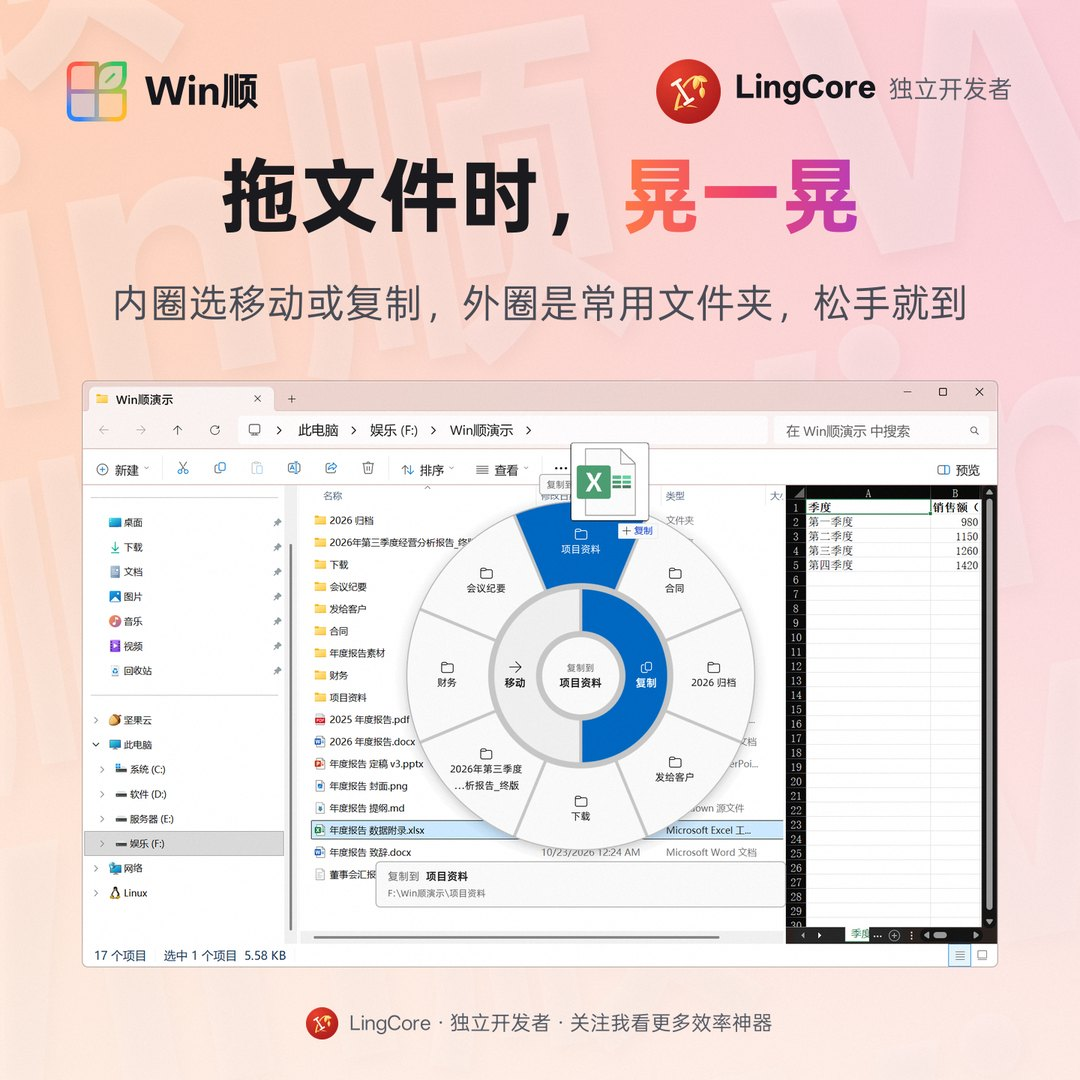
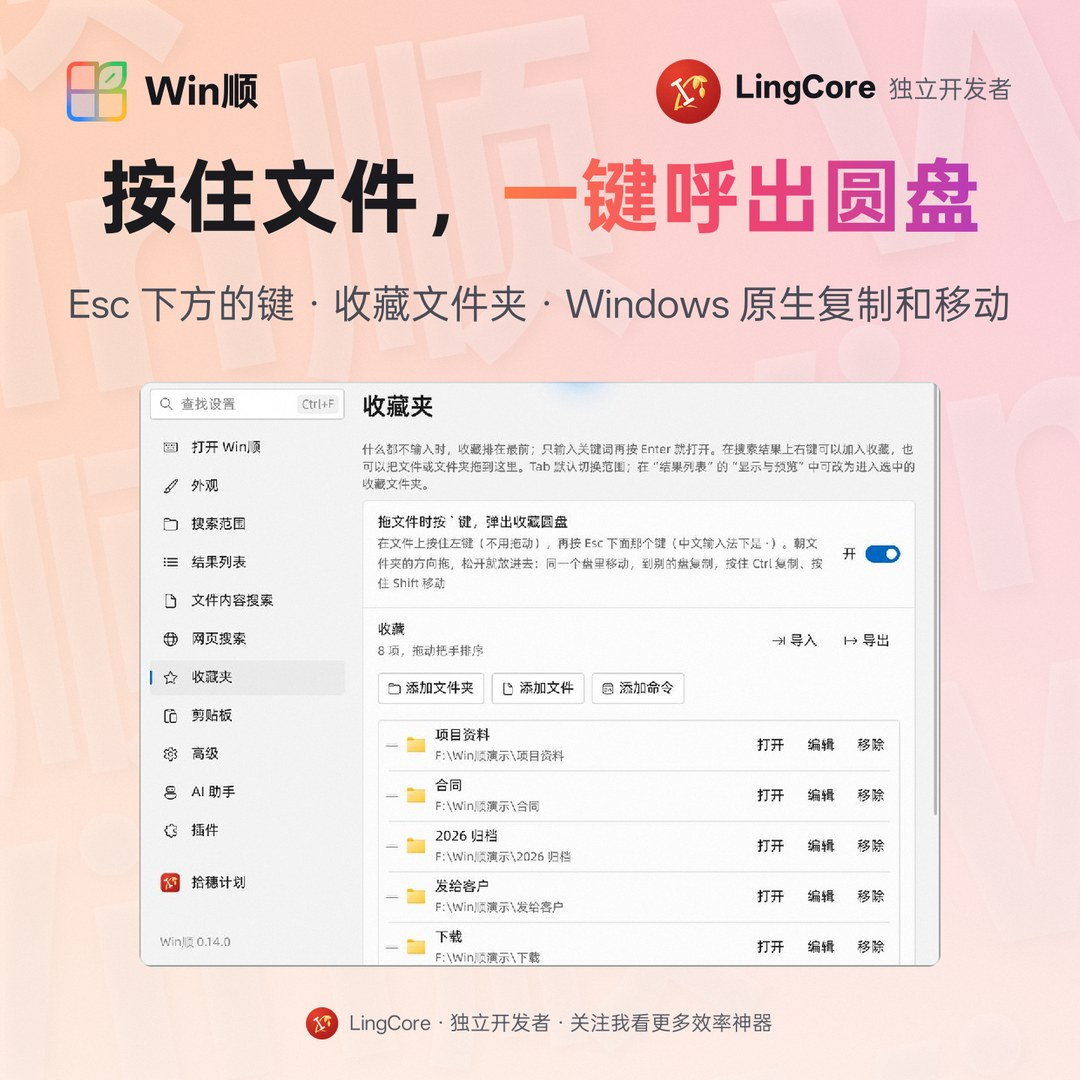
Release 0.14.0: update documentation and screenshots

diff --git a/tools/screenshots/shots.py b/tools/screenshots/shots.py
@@ -71,7 +71,7 @@ README_WIDTH = 1080
 # for a dark one]. With the cover, the taskbar page and the last page,
 # 18 images: as many as a Xiaohongshu post takes.
 PAGES = (
-    ("01-search", "L-search", "打拼音首字母，[秒找文件]", "ndbg → 年度报告，三百多万个文件几毫秒搜完"),
+    ("01-search", "L-search", "先选类型，[再用拼音搜]", ":documents ndbg → 年度报告 · 日期、大小随行显示"),
     ("02-numbers", "L-numbers", "按住 Ctrl，[数字直达]", "图标上显示序号，Ctrl+1～9 打开第几行"),
     ("03-newest", "X-newest", "找[最新的那一版]", "Ctrl+S 按修改时间排，最新的或最早的在前"),
     ("04-content", "L-content", "搜[文件里的文字]", "Word、Excel、PPT、PDF、代码，一起搜"),
@@ -81,7 +81,7 @@ PAGES = (
     ("08-favorites", "L-fav", "常去的地方，[收藏起来]", "不打字就排在最前；起个关键词，cw 回车就进“财务”"),
     ("09-plugins", "L-plug1+L-plug2+L-plug3", "算、换、查，[打完就有]", "计算、单位换算、颜色……装插件还能更多"),
     ("10-dialog", "L-dialog", "打开、保存时[直接搜]", "对话框下面多一个搜索框，不用一层层点文件夹"),
-    ("11-clipboard", "L-clipboard", "剪贴板历史，[随叫随到]", "代替 Win+V · 拼音搜索 · 图片预览"),
+    ("11-clipboard", "L-clipboard", "剪贴板图片，[保留原格式]", "PNG、JPEG、GIF · 动图可播放和暂停"),
     ("12-clipocr", "L-clipocr", "图片里的字，[也能搜]", "复制过的截图，搜“西南”就找到；在本机识别，不联网"),
     ("14-ai", "X-ai2", "让 AI [帮你找文件]", "Claude、Cursor、VS Code 一键连上，只读、按你的权限"),
     ("15-settings", "L-setsearch", "设置[一搜就到]", "打 kjj 就找到“快捷键”，开关直接点"),
@@ -100,12 +100,17 @@ README_ONLY = (
     ("switches", "L-switch1+L-switch2+L-switch3", "系统开关，[打字就切]", "行尾就是现在的状态，回车就地切换，窗口不关"),
     ("edit", "L-edit", "截图标完，[还能再改]", "箭头、方框、文字：从剪贴板历史打开，随时再编辑"),
     # 0.13.0 (scenes/release013.txt): "screen" = a piece of the screen, not a window with its own transparency
-    ("droppie", "L-droppie", "拖文件时，[晃一晃]", "内圈选移动或复制，外圈是常用文件夹，松手就到"),
+    ("droppie", "L-droppie", "按住文件，[一键呼出圆盘]", "Esc 下方的键 · 收藏文件夹 · Windows 原生复制和移动"),
     ("longshot", "L-longshot", "比屏幕还长，[一键拼成长图]", "Ctrl+L 自动滚动、自动拼接：网页、聊天记录、文档都行"),
     ("redact", "L-redact", "截图里的隐私，[一键打码]", "手机号、身份证、银行卡、邮箱，本机识别可撤销", "screen"),
     ("pins", "L-pins", "截图，[贴在屏幕上]", "F3 贴图：悬在所有窗口上，拖到哪放哪，滚轮缩放", "screen"),
     ("capture", "L-capture", "框选截图，[先认出控件]", "指到哪框到哪，色块按钮也认；放大镜看颜色，C 复制", "screen"),
     ("typing", "L-typing", "资源管理器里，[直接打字就搜]", "在文件夹里随便打字，只搜这个文件夹（设置里打开）"),
+    ("plugin-library", "L-plugin-library", "社区插件，[在这里安装]", "现有 WinShun-plugins · 下载后核对校验 · 安装和更新"),
+    ("backup", "L-backup", "设置和收藏，[带到新电脑]", "导出 ZIP · 校验后恢复 · 恢复前保存当前配置"),
+    ("file-types", "L-file-types", "文件类型，[由你来定义]", "扩展名、搜索前缀、顺序，都能自己改"),
+    ("search-scope", "L-search-scope", "只索引[你需要的文件夹]", "选择收录范围，按时核对，后台更新"),
+    ("wsl", "L-wsl", "Linux 文件，[也能一起搜]", "只搜文件名和文件夹名 · 发行版停止时结果仍可用"),
 )
 PENDING = {"L-droppie", "L-longshot", "L-redact", "L-pins", "L-capture", "L-typing"}  # shot by scenes/release013.txt;
 # render leaves them out while there is no shot yet (so the other pictures can be made again meanwhile)

diff --git a/README.md b/README.md
@@ -18,7 +18,7 @@
 </p>
 
 <p align="center">
-  <a href="#中文">中文</a> · <a href="#english">English</a> · <a href="#screenshots">截图 Screenshots</a>
+  <a href="#中文">中文</a> · <a href="#english">English</a> · <a href="#screenshots">截图 Screenshots</a> · <a href="https://github.com/LingCore/WinShun-plugins">插件库 Plugin library</a>
 </p>
 
 <p align="center">
@@ -38,7 +38,7 @@
 ## 截图 · Screenshots
 
 <p align="center">
-  <img src="docs/images/search.jpg" width="49%" alt="打拼音首字母秒找文件：ndbg 找到年度报告 / pinyin initials ndbg find 年度报告">
+  <img src="docs/images/search.jpg" width="49%" alt="文件类型前缀与拼音搜索：:documents ndbg 找到年度报告，结果显示日期与大小 / type prefixes and pinyin search with dates and file sizes">
   <img src="docs/images/numbers.jpg" width="49%" alt="图标上的序号，Ctrl+1～9 直接打开 / row numbers on the icons, Ctrl+1–9 opens a row">
   <img src="docs/images/newest.jpg" width="49%" alt="按修改时间排序，找最新的那一版 / sort by date modified, newest first">
   <img src="docs/images/panel.jpg" width="49%" alt="搜索面板：Ctrl+E 展开，左边筛选，右边分列排序 / search panel: Ctrl+E for filters and sortable columns">
@@ -53,10 +53,11 @@
   <img src="docs/images/switches.jpg" width="49%" alt="系统开关：行尾显示现在的状态，回车就地切换；音量 30、保持唤醒 1小时一步到位 / system switches: the live state on the row, Enter flips it; set the volume or keep awake in one step">
   <img src="docs/images/web.jpg" width="49%" alt="网页搜索：zhihu 显卡、bilibili、京东一步到位 / web search keywords">
   <img src="docs/images/favorites.jpg" width="49%" alt="收藏夹：常去的文件夹排在最前，关键词直达 / favorites with keywords">
-  <img src="docs/images/droppie.jpg" width="49%" alt="拖文件时按 ` 键，常用文件夹围在指针周围，朝哪个拖就放进哪个 / press ` while dragging files: favorite folders round the pointer, drag toward one to drop there">
+  <img src="docs/images/droppie.jpg" width="49%" alt="收藏夹与拖放圆盘设置：按住文件，再按 Esc 下方的键呼出圆盘 / favorites and drop ring settings: hold a file and press the key below Esc">
   <img src="docs/images/plugins.jpg" width="49%" alt="插件：计算器、单位换算、颜色 / plugins: calculator, unit conversion, colors">
+  <img src="docs/images/plugin-library.jpg" width="49%" alt="现有 WinShun-plugins 社区插件库：安装、更新与开发入口 / the existing WinShun-plugins library, installation, updates and plugin development">
   <img src="docs/images/dialog.jpg" width="49%" alt="打开、另存为对话框旁的搜索框，Ctrl+G 转到资源管理器的文件夹 / search bar for Open and Save dialogs">
-  <img src="docs/images/clipboard.jpg" width="49%" alt="剪贴板历史，代替 Win+V，拼音搜索、图片预览 / clipboard history replacing Win+V">
+  <img src="docs/images/clipboard.jpg" width="49%" alt="剪贴板图片原格式与 GIF 动图预览，保留 PNG、JPEG、GIF / original PNG, JPEG and GIF clipboard images with animated previews">
   <img src="docs/images/clipocr.jpg" width="49%" alt="剪贴板 OCR：搜图片里的文字 / clipboard OCR: search words in copied pictures">
   <img src="docs/images/edit.jpg" width="49%" alt="截图标完还能再改：方框、箭头、文字，从剪贴板历史打开接着编辑 / edit a screenshot again: boxes, arrows and text, reopened from the clipboard history">
   <img src="docs/images/capture.jpg" width="49%" alt="框选截图：指到哪框到哪，色块按钮也认，放大镜看颜色 / capture overlay: the control under the pointer is framed, the magnifier shows pixels and color">
@@ -67,6 +68,10 @@
   <img src="docs/images/ai.jpg" width="49%" alt="AI 助手 MCP：Claude、Cursor、VS Code 一键连接 / MCP server for Claude, Cursor and VS Code">
   <img src="docs/images/settings.jpg" width="49%" alt="设置可搜索：kjj 找到快捷键 / searchable settings">
   <img src="docs/images/appearance.jpg" width="49%" alt="外观：主题、透明效果、圆角或直角、界面大小、单色任务栏图标 / appearance: theme, transparency, rounded or square corners, UI size, monochrome taskbar icon">
+  <img src="docs/images/backup.jpg" width="49%" alt="导出设置备份，在新电脑校验恢复，当前配置先备份 / export settings and restore on another PC with validation and a backup of the current configuration">
+  <img src="docs/images/file-types.jpg" width="49%" alt="自定义文件类型、扩展名和搜索前缀 / custom file types, extensions and search prefixes">
+  <img src="docs/images/search-scope.jpg" width="49%" alt="选择索引的文件夹及定时核对频率 / choose indexed folders and their verification schedule">
+  <img src="docs/images/wsl.jpg" width="49%" alt="网络与 WSL 文件名搜索：添加 Linux 用户目录或项目文件夹 / network and WSL filename search, add a Linux home or project folder">
   <img src="docs/images/dark.jpg" width="49%" alt="深色模式，Win11 云母效果 / dark theme with Windows 11 Mica">
 </p>
 
@@ -83,6 +88,8 @@
 📖 每个功能怎么用，见 **[使用说明](docs/使用说明.md)**。
 
 ### 功能
+
+**0.14.0 更新**：WSL 文件搜索、自定义搜索范围和类型、剪贴板原格式图片与 GIF 动图预览、设置备份导出与换机恢复，以及按键呼出的拖放圆盘。截图标注新增曲线和可编辑路径；在资源管理器里还可以把复制的文字、图片或文件直接粘贴成文件。详见 [发布说明](docs/release-notes/v0.14.0.md)。社区插件已集中在 [WinShun-plugins](https://github.com/LingCore/WinShun-plugins)，可在设置 › 插件 › 插件库里安装和更新。
 
 #### 🔍 文件搜索
 
@@ -178,8 +185,8 @@
 - **粘进上传框**：在 Windows 的“打开”文件选择框里从剪贴板历史粘贴文件，完整路径直接填进“文件名”，多个文件也行，再点“打开”。
 - **公式和嵌入的对象**：Word 里单独复制的公式、文档里嵌入的对象，记成一条带图的历史（公式的文字也搜得到），粘回 Word 里还是能编辑的公式或对象，只认图片的程序拿到的是图片；`Shift+Enter` 把公式粘贴成一行文字。（用 Word 测过。）
 - **能搜**：拼音搜索，`@wx` 只看微信里复制的；**图片里的字也能搜**（PaddleOCR 文字识别，在本机，不联网，截图里的数字和小字也认得准）。
-- **预览**：全文、大图、颜色值的 HEX / RGB / HSL；点一条旁边的眼睛按钮（或 `Alt+P`）开关预览，预览开着时鼠标停在哪一行就预览哪一行；预览窗口更宽，中间的竖线可以拖着调，下次还记得；图片缩略图可以调大，不打开预览也看得清。
-- **拖出图片**：按住图片拖到文件夹里，就存成 PNG 文件；用 Ctrl 或 Shift 选多张后，从选中的图片起拖，就能一起保存。在资源管理器里打开剪贴板，粘贴一张或多张图片，也会保存为 PNG 文件。
+- **预览**：全文、大图、颜色值的 HEX / RGB / HSL；GIF 动图支持播放和暂停。点一条旁边的眼睛按钮（或 `Alt+P`）开关预览，预览开着时鼠标停在哪一行就预览哪一行；预览窗口更宽，中间的竖线可以拖着调，下次还记得；图片缩略图可以调大，不打开预览也看得清。
+- **图片保留原格式**：复制来源提供 PNG、JPEG 或 GIF 时，保存原始数据；只有位图时转存 PNG。按住图片拖到文件夹，或在资源管理器里从剪贴板历史粘贴图片，都会沿用保存的格式；用 Ctrl 或 Shift 选多张还能一起保存。
 - **整理**：固定、分组、多选按顺序合并粘贴，钉住后可以一条接一条地往表格里填；固定的可以排在最前，顺序可以拖动或用 `Ctrl+↑`/`↓` 自己排。`Ctrl+A` 选中列出来的全部，行菜单里的“删除全部”一次清掉，按 `Ctrl+Z` 能恢复。
 - **复制过的文件被删了**：那一条会标“已不存在”；可以设成自动隐藏或自动清理（固定的和分组里的不动，拔掉的 U 盘不算）。
 - **从别处导入**：设置 › 剪贴板 › 保留 里的“导入剪贴板历史”，可以导入 Ditto 的数据库（装了 Ditto 的话一键导入）、`.txt` 文本和 `.csv` 表格（中文 Excel 存的 GBK 也认）；导入的放进一个新分组，不会被自动删除，已经有的内容会跳过。
@@ -190,7 +197,7 @@
   - **识别文字并复制**：`Shift+C` 把选区里的文字识别出来，直接复制。
   - **延时**：`D` 或工具条的“延时”，倒计时（秒数在设置里选）到点才定住屏幕，用来截菜单、悬停提示。设置里可以让截图带上鼠标指针（默认关）。
   - **二维码**：`Q` 读选区里的二维码，文字显示在小窗口里可以复制；是网址时多一个“打开链接”，点了才打开。
-  - **标注**：矩形、椭圆、箭头、直线、画笔、荧光笔、文字、序号和打码。序号可以选 `1 2 3`、`A B C`、`a b c`、罗马数字、圈里的数字，序号旁边还能直接写字。打码有马赛克、模糊、纯色和抹平（用四周的底色盖住，像擦掉了一样），可以框也可以涂抹，打码的地方还原不出来。
+  - **标注**：矩形、椭圆、箭头、直线、曲线、路径、画笔、荧光笔、文字、序号和打码；曲线和路径的节点可再调整，荧光笔有不同绘制模式。序号可以选 `1 2 3`、`A B C`、`a b c`、罗马数字、圈里的数字，序号旁边还能直接写字。打码有马赛克、模糊、纯色和抹平（用四周的底色盖住，像擦掉了一样），可以框也可以涂抹，打码的地方还原不出来。
   - **智能打码**：选好区域停一会儿，Win顺 在本机找出图里的手机号、身份证号、银行卡号、邮箱、密钥和本机用户名，提示“发现 N 处”，点一下（或 `Shift+B`）全部盖上，一次 `Ctrl+Z` 全撤；自动找的可能有漏，发出去前再看一眼。
   - **长截图**：网页、聊天记录、文档、文件列表比屏幕还长时，选好区域按 `Ctrl+L`（或工具条的“长截图”），Win顺 自己往下滚着截，拼成一张长图，在编辑窗口里打开；也可以关掉“自动滚动”自己滚，滚完按 `Enter`。只能左右滚的、一直在动的画面不适合。
   - **完成**：`Enter` 复制，截图进剪贴板历史，图里的字也能搜；`Ctrl+S` 保存到“图片\屏幕截图”。打开设置里的“复制截图时同时贴图”，复制的同时也贴在屏幕上。标过的图以后还能再打开接着改，从剪贴板历史、搜索框或贴图上都能进，可多选、取色、裁剪。
@@ -315,6 +322,8 @@ It reads the NTFS master file table (MFT) directly, indexing three million files
 
 ### Features
 
+**New in 0.14.0**: WSL file search, configurable search scopes and types, original clipboard image formats and animated GIF previews, settings export and migration, and a keyboard-triggered drop ring. Screenshot annotations add curves and editable paths, and Explorer can paste copied content as a file. See the [release notes](docs/release-notes/v0.14.0.md). Community plugins live in [WinShun-plugins](https://github.com/LingCore/WinShun-plugins), accessible from Settings › Plugins › Plugin library.
+
 - **WSL file search**: add a Linux project or home folder under Settings › Search scope › Network & WSL. Installed distributions appear automatically. Search file and folder names alongside local files, including pinyin; indexed results remain available while WSL is stopped and update automatically when it runs again.
 
 - 🔍 **File search**
@@ -371,7 +380,7 @@ It reads the NTFS master file table (MFT) directly, indexing three million files
   - **What**: text, pictures and files, opened with `Win+V` or your own shortcut, by the text cursor, without taking the focus.
   - **Search**: pinyin, `@app` filters, and **words in copied pictures** (PaddleOCR text recognition, on your PC and offline, good with numbers and small print in screenshots).
   - **Preview**: full text, pictures, HEX / RGB / HSL color values. The eye button (or `Alt+P`) opens and closes it; while it is open, the row under the mouse is shown. It is wider now, and the line beside it can be dragged, the width remembered.
-  - **Drag pictures out**: hold a picture and drop it on a folder to save it as a PNG file; select several with Ctrl or Shift and drag from one of them to save them together. Pasting one or more pictures from the clipboard history into a File Explorer folder saves them as PNG files too.
+  - **Original image formats**: PNG, JPEG and GIF data supplied by the source are kept as received; bitmap-only copies become PNG. Drag pictures into a folder or paste them into File Explorer to save them in their stored format. Select several with Ctrl or Shift to save them together. GIF previews can play and pause.
   - **Paste**: double-click or `Enter`, or one click as in Windows' own history (an option); larger picture thumbnails as another.
   - **Paste without opening it**: Settings › Clipboard › Shortcuts › “Paste without opening the panel” (`Ctrl+1–9` or `Alt+1–9`) pastes the first nine entries straight into any program, format kept. Off by default; when on, those keys no longer do their usual job in other programs (switching browser tabs, say).
   - **Upload boxes**: in a Windows “Open” file box, pasting files from the clipboard history puts their full paths in the File name field, several at once if you like; then click Open.
@@ -386,7 +395,7 @@ It reads the NTFS master file table (MFT) directly, indexing three million files
     - **Copy the words**: `Shift+C` reads the words in the area and copies them.
     - **Delay**: `D`, or Delay on the toolbar, counts down (the seconds are a setting) and freezes the screen only at the end, for menus and tooltips. “Include the mouse cursor” in the settings puts the pointer in the picture (off by default).
     - **QR codes**: `Q` reads a QR code in the area and shows its text to copy; for a web address there is an Open link button, and nothing opens until you click it.
-    - **Marking up**: rectangle, ellipse, arrow, line, pen, highlighter, text, numbers and redaction. Numbers can be `1 2 3`, `A B C`, `a b c`, Roman numerals or numbers in circles, and a few words can be typed beside one. Redaction is mosaic, blur, solid or Smooth (covered with the surrounding background, as if wiped away), as a box or a stroke; what is under it cannot be worked back out.
+    - **Marking up**: rectangle, ellipse, arrow, line, curve, path, pen, highlighter, text, numbers and redaction. Curve and path nodes remain adjustable, and the highlighter offers different drawing modes. Numbers can be `1 2 3`, `A B C`, `a b c`, Roman numerals or numbers in circles, and a few words can be typed beside one. Redaction is mosaic, blur, solid or Smooth (covered with the surrounding background, as if wiped away), as a box or a stroke; what is under it cannot be worked back out.
     - **Smart redaction**: after you rest on an area, WinShun reads it on your PC and finds phone numbers, ID card and bank card numbers, e-mail addresses, keys and this PC's user name, and offers “N found · click to redact”; one click (or the Smart redact button, or `Shift+B`) covers them all and one `Ctrl+Z` takes it back. It can miss some, so look once more before you send.
     - **Scrolling screenshots**: for a web page, a chat, a document or a file list longer than the screen, choose the area and press `Ctrl+L` (or Long screenshot on the toolbar): WinShun scrolls it by itself while it shoots and stitches one long picture, opened in the editing window. Turn off Auto-scroll to scroll yourself and press `Enter` when done. Content that only scrolls sideways, or keeps moving, does not suit it.
     - **Finishing**: `Enter` copies it, into the clipboard history too, where the words in it can be searched; `Ctrl+S` saves it to Pictures\Screenshots. “Pin screenshots when copying” also pins it on the screen whenever it is copied. A marked-up picture can be opened and changed again later, from the clipboard history, the search box or a pin, with multi-select, a color picker and cropping.

diff --git a/docs/release-notes/v0.14.0.md b/docs/release-notes/v0.14.0.md
@@ -1,0 +1,43 @@
+Win顺 0.14.0：搜 WSL、保留图片原格式和 GIF 动图、备份设置换电脑，拖放圆盘改为按键呼出。WinShun 0.14.0: search WSL, keep original image formats and animated GIFs, move settings to another PC, and open the drop ring with a key.
+
+## 下载 · Download
+
+下载 **WinShun-0.14.0-x64-setup.exe**，直接安装或覆盖升级，保留设置和索引。需要 Windows 10（1809 或更新）或 Windows 11，64 位。免安装版下载 **WinShun-0.14.0-x64-portable.zip**，解压后运行 `WinShun.exe`；升级便携版时覆盖程序文件并保留 `data` 文件夹。
+
+Download **WinShun-0.14.0-x64-setup.exe** to install or upgrade in place, keeping settings and index. Requires 64-bit Windows 10 (1809 or later) or Windows 11. For a portable copy, unzip **WinShun-0.14.0-x64-portable.zip** and run `WinShun.exe`; keep the `data` folder when upgrading.
+
+## 新功能 · What's new
+
+- 🐧 **WSL 文件搜索**：设置 › 搜索范围 › 网络与 WSL，选择 Linux 发行版的用户目录、项目文件夹或粘贴路径。文件名、拼音和首字母一起搜；发行版停止时保留已有结果，恢复运行后自动更新。
+  **WSL file search**: add a home or project folder under Settings › Search scope › Network & WSL. Search names and pinyin alongside local files. Indexed results remain available while a distribution is stopped and update when it runs again.
+- 🔍 **搜索范围和类型可配置**：可以选择收录的磁盘或文件夹、自定义文件类型筛选，设置程序优先显示的扩展名；搜索结果可分别显示或隐藏修改日期和文件大小。收藏文件夹可选择用 `Tab` 进入，默认仍切换范围。
+  **Choose what to search and show**: select disks or folders, customize file type filters and preferred application extensions, and toggle modification dates and file sizes independently. Tab can enter a favorite folder; scope switching remains the default.
+- 📋 **保留图片原格式和 GIF 动图**：剪贴板记录可保留 PNG、JPEG、GIF 的原始数据，GIF 在预览里播放；拖出、粘贴到文件夹或通过 MCP 读取时沿用保存的格式。只有位图数据时仍保存为 PNG。
+  **Original images and animated GIFs**: clipboard entries retain PNG, JPEG and GIF data, with animated previews. Dragging out, pasting into a folder and MCP reads preserve the saved format; bitmap-only copies are stored as PNG.
+- 🧳 **备份导出与换电脑恢复**：设置 › 高级 › 备份，导出 ZIP，在新电脑上从备份恢复；不必先开启自动备份。恢复前检查备份内容并保存当前配置，恢复失败时回滚。插件密码需重新填写，自定义路径请检查是否适用于新电脑。
+  **Export and restore settings**: export a ZIP under Settings › Advanced › Backup and restore it on another PC without enabling automatic backups first. Contents are validated and current settings saved before restoring, with rollback on failure. Re-enter plugin secrets and check machine-specific paths afterward.
+- 🎯 **拖放圆盘改为按键呼出**：按住文件或拖着文件时按 Esc 下方的反引号键（&#96;），常用文件夹围在指针周围，朝目标拖动即可放入；不再依赖晃动文件。收藏文件夹的名称会随圆盘布局避让。
+  **A key opens the drop ring**: while holding or dragging files, press the backtick key below Esc. Favorite folders appear around the pointer; drag toward a destination. The shake gesture is replaced by this explicit shortcut.
+- 📄 **复制的内容直接存成文件**：资源管理器里的“粘贴为文件”支持文字、图片和文件内容，也可以在设置里配置这项功能。
+  **Paste as a file in Explorer**: save copied text, pictures or files directly from a folder, with configuration in Settings.
+- ✏ **更灵活的截图标注**：新增曲线和可编辑路径，支持调整节点；荧光笔可选不同绘制模式，标注保存后还可以重新编辑。
+  **More flexible screenshot annotations**: curves and editable paths with adjustable nodes, plus highlighter drawing modes. Saved annotations can still be reopened for editing.
+- 🧩 **现有社区插件库**：设置 › 插件 › 插件库连接 [WinShun-plugins](https://github.com/LingCore/WinShun-plugins)，可安装和更新社区插件，也提供创建插件和 AI 开发提示入口。
+  **Community plugin library**: Settings › Plugins › Plugin library uses the existing [WinShun-plugins](https://github.com/LingCore/WinShun-plugins) repository, with installation, updates, plugin templates and development prompts.
+
+## 修复与改进 · Fixes and improvements
+
+- 修复搜索框、对话框旁搜索条在显示器或窗口切换后偶尔只剩图标的问题；复用窗口时等待首帧绘制完成再显示，诊断日志补充显示器和字体状态。
+  Fix intermittent icon-only launcher and dialog search windows after display or window changes; reused windows wait for their first frame, and diagnostics include display and font state.
+- 剪贴板窗口隐藏后释放空闲预览和识别资源；改进图片方向、尺寸和格式校验，限制过大图片的解码。
+  Release idle clipboard preview and recognition resources when hidden; improve image orientation, size and format checks and bound oversized image decoding.
+- 改进网络路径、WSL 路径和链接文件夹的收录与查询；更新中英文说明及设置文案。
+  Improve indexing and queries for network paths, WSL paths and linked folders; update Chinese and English documentation and settings text.
+
+## 第一次打开 · First launch
+
+Windows 可能提示“Windows 已保护你的电脑”：点 **更多信息 → 仍要运行**。程序尚未签名。为所有用户安装时，安装索引服务需要管理员同意一次；“只为我安装”不需要。
+
+Windows may show “Windows protected your PC”: choose **More info → Run anyway**. The app is not code-signed yet. Installing for all users asks an administrator once for the index service; installing for you only does not.
+
+校验下载完整性 · Verify downloads: **SHA256SUMS.txt**

diff --git a/tools/screenshots/README.md b/tools/screenshots/README.md
@@ -20,6 +20,8 @@ README 里的图（`docs/images/*.jpg`：帖子的方形页面和方形封面，
 
 ## 只重新出图
 
+0.14.0 已补拍搜索结果、剪贴板 GIF 预览、收藏夹与圆盘设置，以及插件库、备份迁移、自定义类型、搜索范围和 WSL 页面。运行的是 `dist/WinShun/WinShun.exe` 0.14.0，用 `work/release014/profile` 独立演示配置；只索引演示文件夹，剪贴板内容直接写入演示数据库，排除实际运行程序的复制记录。使用 Computer Use 捕获真实窗口（搜索框、剪贴板这类弹窗随设置窗口一同返回，再取各自的截图），原图在 `work/release014/raw`；设置页裁掉系统标题栏后加圆角和透明留白，整理到 `work/shots/L-*.png`，再沿用这里的排版。未改界面的功能图保留原有截图。
+
 改了背景、标题、排版，抠图不用重拍：
 
 ```
@@ -45,7 +47,9 @@ README 的图是帖子各页加上 `shots.py` 的 `README_ONLY`（帖子最多 1
 
 只补拍一部分：照 `all.txt` 写一个场景文件（先 `profile start`，拍剪贴板就照它先删掉最上面那一条，最后 `restore`、`profile stop`）。不带参数运行 `agent.ps1` 时，它执行每次写进 `work\cmd.txt` 的一批命令，适合边看边拍；`profile start` 后面可以跟 `shots.py profile` 的参数，比如 `--number-keys off`（图标上就没有序号）；`quit` 关掉 Win顺（原来就没在运行时用它代替 `profile stop`）。README 另有的七张：`agent.ps1 scenes\more.txt`。预览开在启动器旁边，是另一个窗口：`matte <名字> beside` 把贴着前台窗口的 Win顺 窗口也抠进来；演示文件夹里的 `年度报告 封面.png` 是真的图片，预览和结果里的缩略图才有东西可看。按意思找用的是自己设置里的模型服务和密钥（密钥在 Windows 凭据管理器里，不写进配置），演示配置把它指向演示文件夹，拍的时候会把这几个演示文件的文字发给那个服务算向量；拍双击菜单前关掉自己的资源管理器和 Directory Opus 窗口，菜单会列出所有开着的文件夹；`profile start` 启动 Win顺 时带 `WINSHUN_RECENT=own`，最近的文件夹只取演示配置自己的记录，不取 Windows 的。帖子最后一页（`17-follow`）不用截图，由 `art.ending` 画出来。
 
-## 0.13.0 的六张新图（`scenes/release013.txt`）
+## 0.13.0 的六张新图（`scenes/release013.txt`，历史场景）
+
+**0.14.0 起圆盘已改成按 Esc 下方的键呼出，旧场景里的晃动和内外圈操作不再适用。** 不要用下面的旧圆盘步骤拍新版；新版 README 改用真实的收藏夹与圆盘设置页，说明当前的触发方式。
 
 拖放圆盘（`droppie`）、长截图（`longshot`）、智能打码（`redact`）、贴图（`pins`）、框选截图（`capture`）、资源管理器里直接打字（`typing`）。一条命令，在**普通权限**的 PowerShell 里：
 
